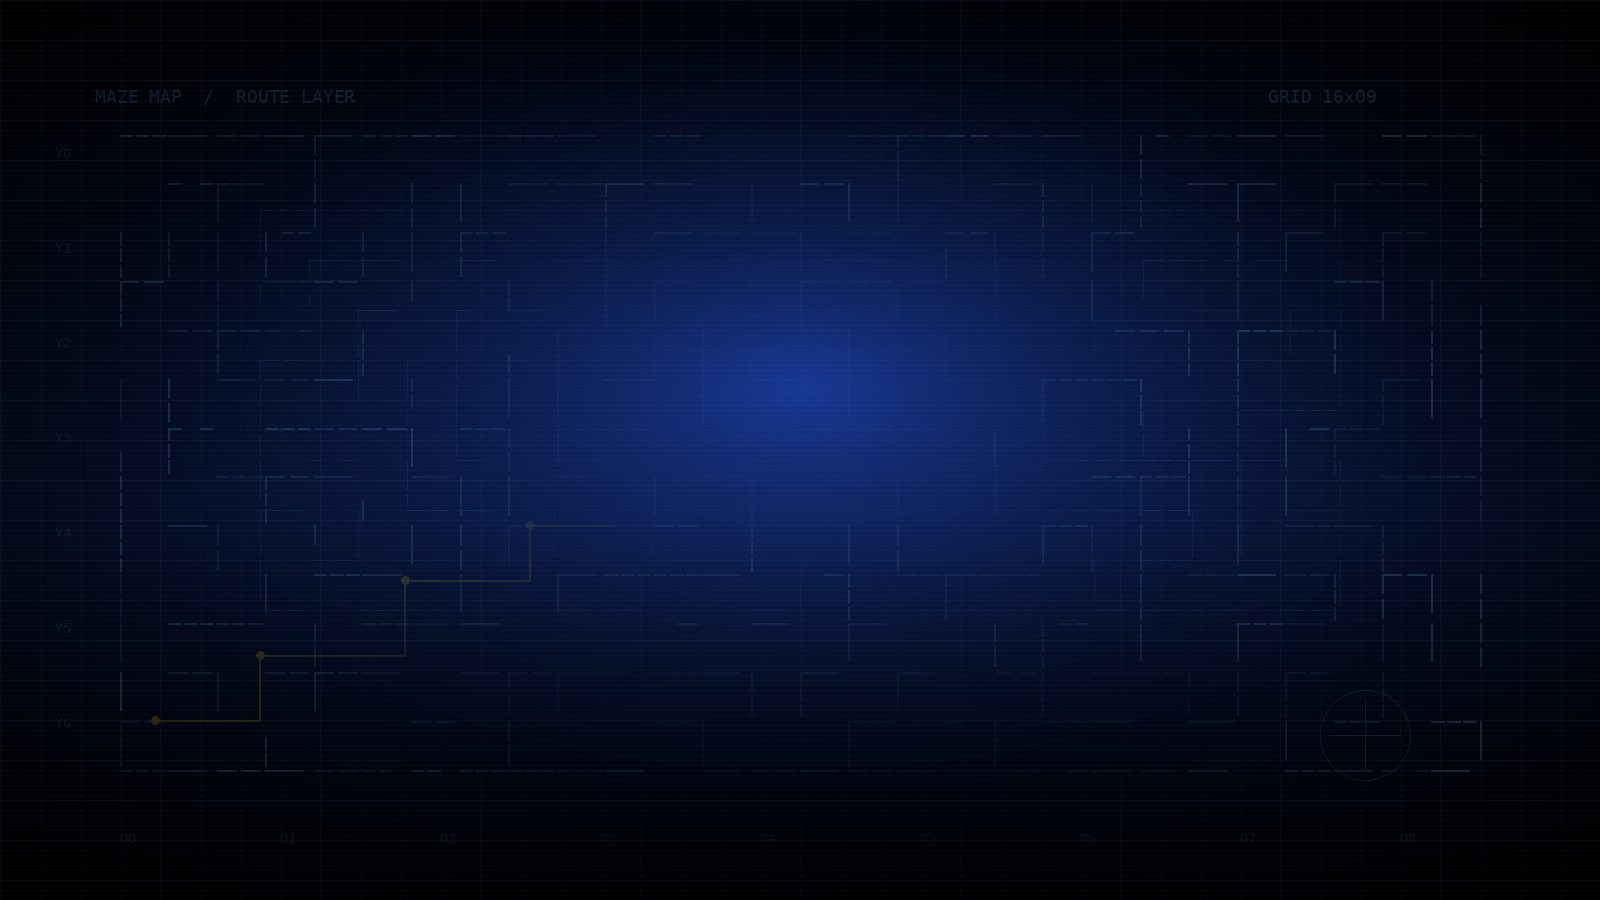
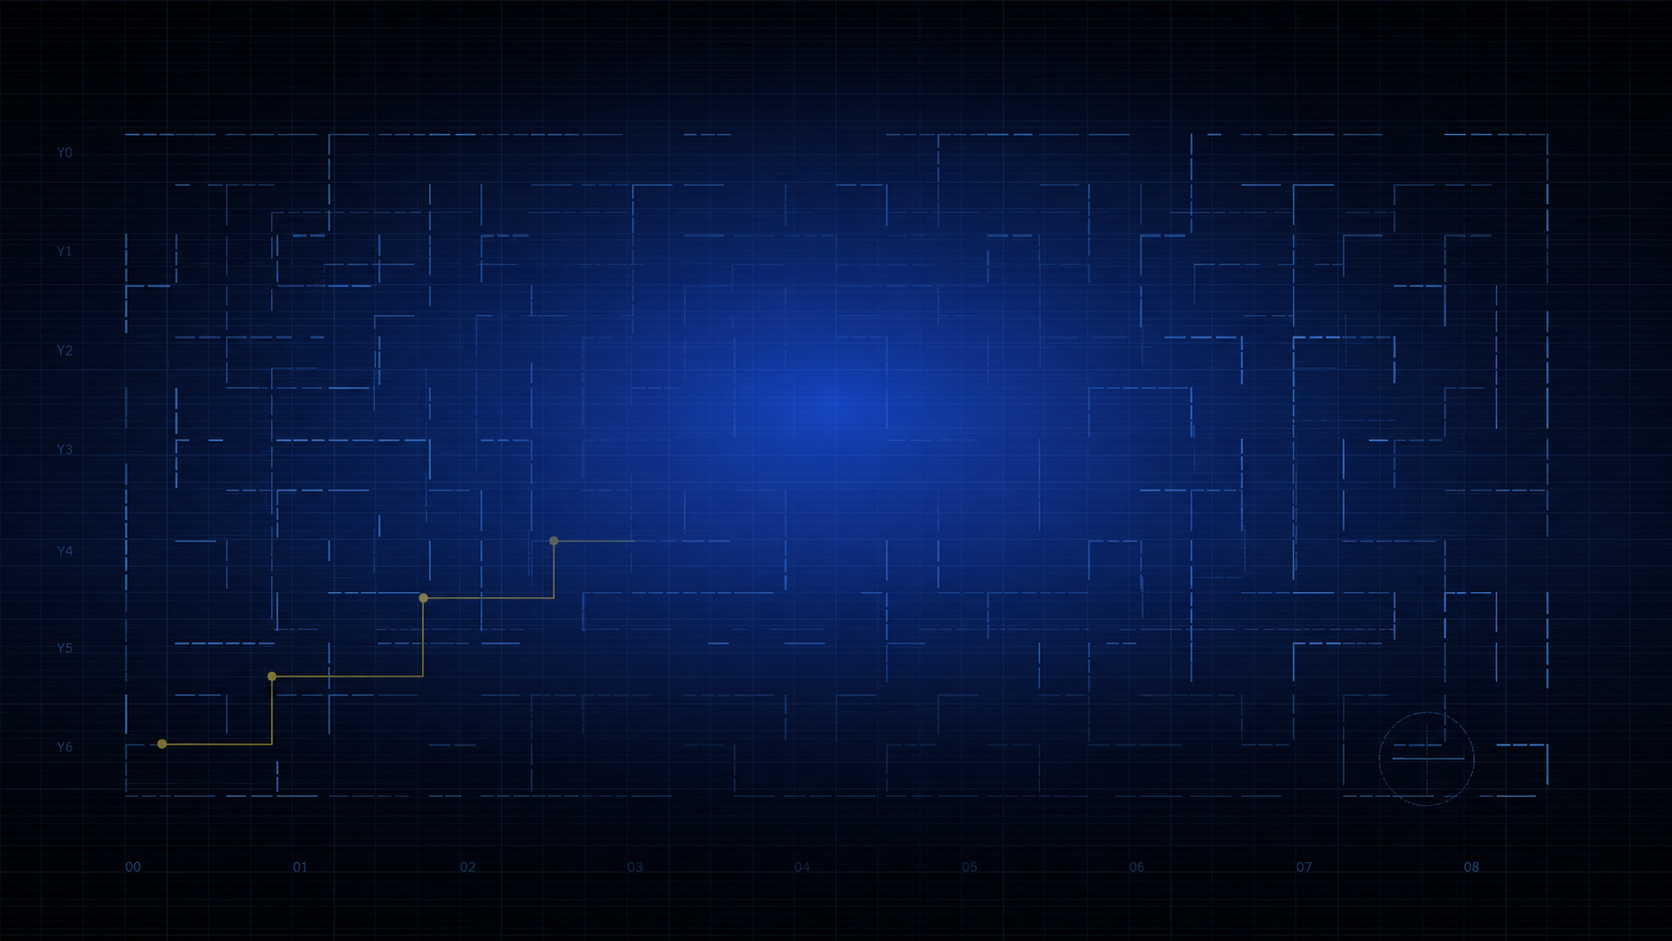
First final version

diff --git a/src/view/menu_chase_scene.py b/src/view/menu_chase_scene.py
@@ -1,7 +1,5 @@
 """Animated 3D chase backdrop for the main menu."""
 
-from __future__ import annotations
-
 import math
 from dataclasses import dataclass
 from typing import Any
@@ -13,7 +11,6 @@ from src.constants import (
     ENTITY_SWAY_SPEED,
     GHOST_MODEL_HEIGHT,
     GHOST_MODEL_SCALE,
-    PACGUM_MODEL_SCALE,
     PACMAN_MODEL_HEIGHT,
     PACMAN_MODEL_SCALE,
 )
@@ -29,12 +26,7 @@ DIRECTION_ROTATIONS = {
 MENU_CHASE_CAMERA_WORLD_HEIGHT = 8.4
 MENU_CHASE_PACMAN_SCALE = PACMAN_MODEL_SCALE * 0.62
 MENU_CHASE_GHOST_SCALE = GHOST_MODEL_SCALE * 0.62
-MENU_CHASE_PELLET_SCALE = PACGUM_MODEL_SCALE * 0.42
-MENU_CHASE_SUPER_PELLET_SCALE = PACGUM_MODEL_SCALE * 0.58
-MENU_CHASE_PELLET_HEIGHT = 0.12
 MENU_CHASE_Z = 3.35
-MENU_CHASE_PELLET_SPACING = 0.72
-MENU_CHASE_PELLET_COUNT = 25
 MENU_CHASE_LEFT = -9.35
 MENU_CHASE_RIGHT = 9.35
 MENU_CHASE_SPEED = 2.1
@@ -85,21 +77,10 @@ class MenuChaseScene:
         """Draw the chase scene directly to the current framebuffer."""
         if window_width <= 0 or window_height <= 0:
             return
-        required_models = {
-            "pacman",
-            "pacgum",
-            "super_pacgum",
-            *MENU_CHASE_GHOSTS,
-        }
-        if not all(
-            key in self._models for key in required_models
-        ):
-            return
 
         self._update_camera_size(window_width, window_height)
 
         ray.begin_mode_3d(self._camera)
-        self._draw_pellets()
         self._draw_chase_train()
         ray.end_mode_3d()
 
@@ -115,31 +96,6 @@ class MenuChaseScene:
             MENU_CHASE_CAMERA_WORLD_HEIGHT,
             width_based_height,
         )
-
-    def _draw_pellets(self) -> None:
-        """Draw one horizontal pellet line as pacgum, pacgum, super."""
-        center_index = (MENU_CHASE_PELLET_COUNT - 1) / 2.0
-        for index in range(MENU_CHASE_PELLET_COUNT):
-            x = (index - center_index) * MENU_CHASE_PELLET_SPACING
-            is_super = index % 3 == 2
-            model_key = "super_pacgum" if is_super else "pacgum"
-            scale = (
-                MENU_CHASE_SUPER_PELLET_SCALE
-                if is_super
-                else MENU_CHASE_PELLET_SCALE
-            )
-            ray.draw_model_ex(
-                self._models[model_key],
-                ray.Vector3(
-                    x,
-                    MENU_CHASE_PELLET_HEIGHT,
-                    MENU_CHASE_Z,
-                ),
-                ray.Vector3(0.0, 1.0, 0.0),
-                0.0,
-                ray.Vector3(scale, scale, scale),
-                ray.WHITE,
-            )
 
     def _draw_chase_train(self) -> None:
         """Draw the alternating ghost-chase and Pac-Man-chase trains."""

diff --git a/src/view/scene_3d.py b/src/view/scene_3d.py
@@ -16,6 +16,8 @@ from src.constants import (
     HUD_FONT_SIZE,
     HUD_HORIZONTAL_PADDING,
     HUD_TOP_OFFSET,
+    MAZE_FLOOR_COLOR,
+    MAZE_FLOOR_HEIGHT,
     MODEL_EXTENSION,
     TEXT_COLOR,
     WALL_MODEL_DIR,
@@ -242,7 +244,9 @@ class Scene3DRendererMixin(Entity3DRendererMixin):
         self,
         grid: list[list[CellState]],
     ) -> None:
-        """Draw walls and pacgums in the 3D maze."""
+        """Draw the floor, walls, and pacgums in the 3D maze."""
+        self._draw_3d_floor(grid)
+
         _wall_model, wall_bounds = next(iter(self._wall_models.values()))
         pacgum_height = (
             wall_bounds.max.y - wall_bounds.min.y
@@ -262,6 +266,35 @@ class Scene3DRendererMixin(Entity3DRendererMixin):
                         pacgum_height,
                         is_super=True,
                     )
+
+    def _draw_3d_floor(
+        self,
+        grid: list[list[CellState]],
+    ) -> None:
+        """Draw one floor slab under the whole maze."""
+        if not grid or not grid[0]:
+            return
+
+        rows = len(grid)
+        cols = len(grid[0])
+        if rows < 2 or cols < 2:
+            return
+
+        floor_width = (cols - 1) * CELL_SIZE_3D
+        floor_depth = (rows - 1) * CELL_SIZE_3D
+        floor_center = ray.Vector3(
+            0.0,
+            -MAZE_FLOOR_HEIGHT / 2.0,
+            0.0,
+        )
+
+        ray.draw_cube(
+            floor_center,
+            floor_width,
+            MAZE_FLOOR_HEIGHT,
+            floor_depth,
+            MAZE_FLOOR_COLOR,
+        )
 
     def _draw_hud(self, model: ModelProtocol) -> None:
         """Draw score, lives, level, and timer."""

diff --git a/src/controller/game_controller.py b/src/controller/game_controller.py
@@ -1,7 +1,6 @@
 """Main game controller."""
 
 from collections.abc import Sequence
-from contextlib import redirect_stdout
 
 import pyray as ray
 
@@ -78,8 +77,7 @@ class GameController:
             self._update_paused(input_state)
 
         elif phase == GamePhase.GAME_OVER:
-            with redirect_stdout(None):
-                self._model.update(delta_time)
+            self._model.update(delta_time)
             self._update_end_flow(input_state, delta_time)
 
         elif phase == GamePhase.WIN:
@@ -289,16 +287,12 @@ class GameController:
             self._end_screen_timer += delta_time
 
             if self._end_screen_timer >= END_SCREEN_DISPLAY_SECONDS:
-                self._open_score_entry()
+                self._reset_score_entry_state()
+                self._score_entry_open = True
 
             return
 
         self._update_score_entry(input_state)
-
-    def _open_score_entry(self) -> None:
-        """Open a fresh score entry page."""
-        self._reset_score_entry_state()
-        self._score_entry_open = True
 
     def _update_score_entry(self, input_state: InputState) -> None:
         """Handle username input on the score entry page."""

diff --git a/src/constants.py b/src/constants.py
@@ -86,6 +86,8 @@ INSTRUCTION_LINES = (
 
 # 3D scene
 CELL_SIZE_3D = 1.0
+MAZE_FLOOR_HEIGHT = 0.08
+MAZE_FLOOR_COLOR = ray.Color(6, 18, 68, 150)
 
 # FOV
 DEFAULT_FOV = 100.0
@@ -96,7 +98,7 @@ FOV_MAX = 120.0
 FOV_SPEED = 60.0
 
 # Camera
-CAMERA_POSITION = (0.0, 15.0, 20.0)
+CAMERA_POSITION = (0.0, 20.0, 20.0)
 CAMERA_TARGET = (0.0, 0.0, 0.0)
 CAMERA_UP = (0.0, 1.0, 0.0)
 

diff --git a/src/view/pages.py b/src/view/pages.py
@@ -1,8 +1,6 @@
 """Highscore, instructions, and end-game page rendering."""
 # mypy: disable-error-code="attr-defined,no-untyped-def"
 
-from __future__ import annotations
-
 from typing import Any
 
 import pyray as ray

diff --git a/src/view/menus.py b/src/view/menus.py
@@ -1,8 +1,6 @@
 """Main and pause menu rendering."""
 # mypy: disable-error-code="attr-defined,no-untyped-def"
 
-from __future__ import annotations
-
 import math
 from collections.abc import Sequence
 

diff --git a/src/view/background.py b/src/view/background.py
@@ -1,7 +1,5 @@
 """Background image rendering."""
 
-from __future__ import annotations
-
 from typing import Any
 
 import pyray as ray
